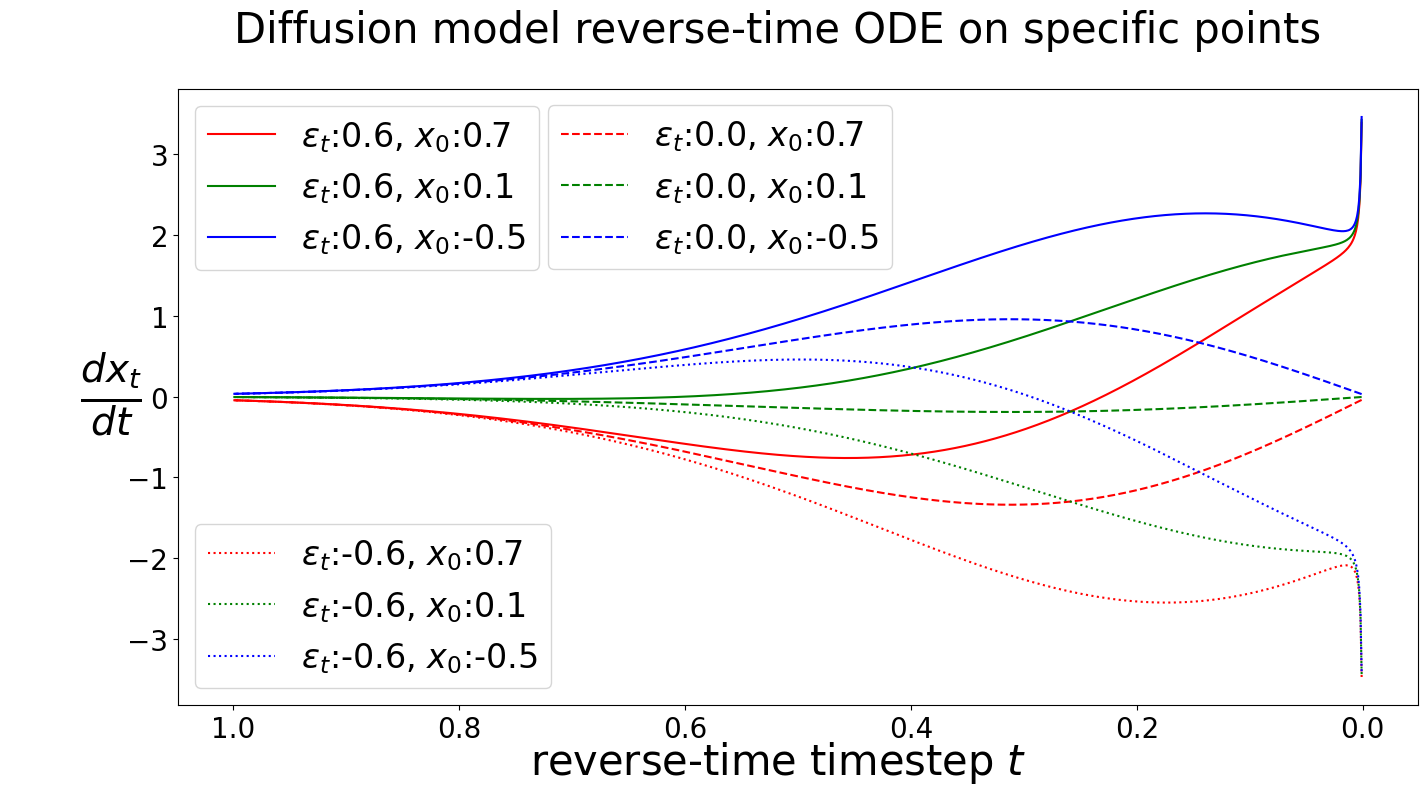
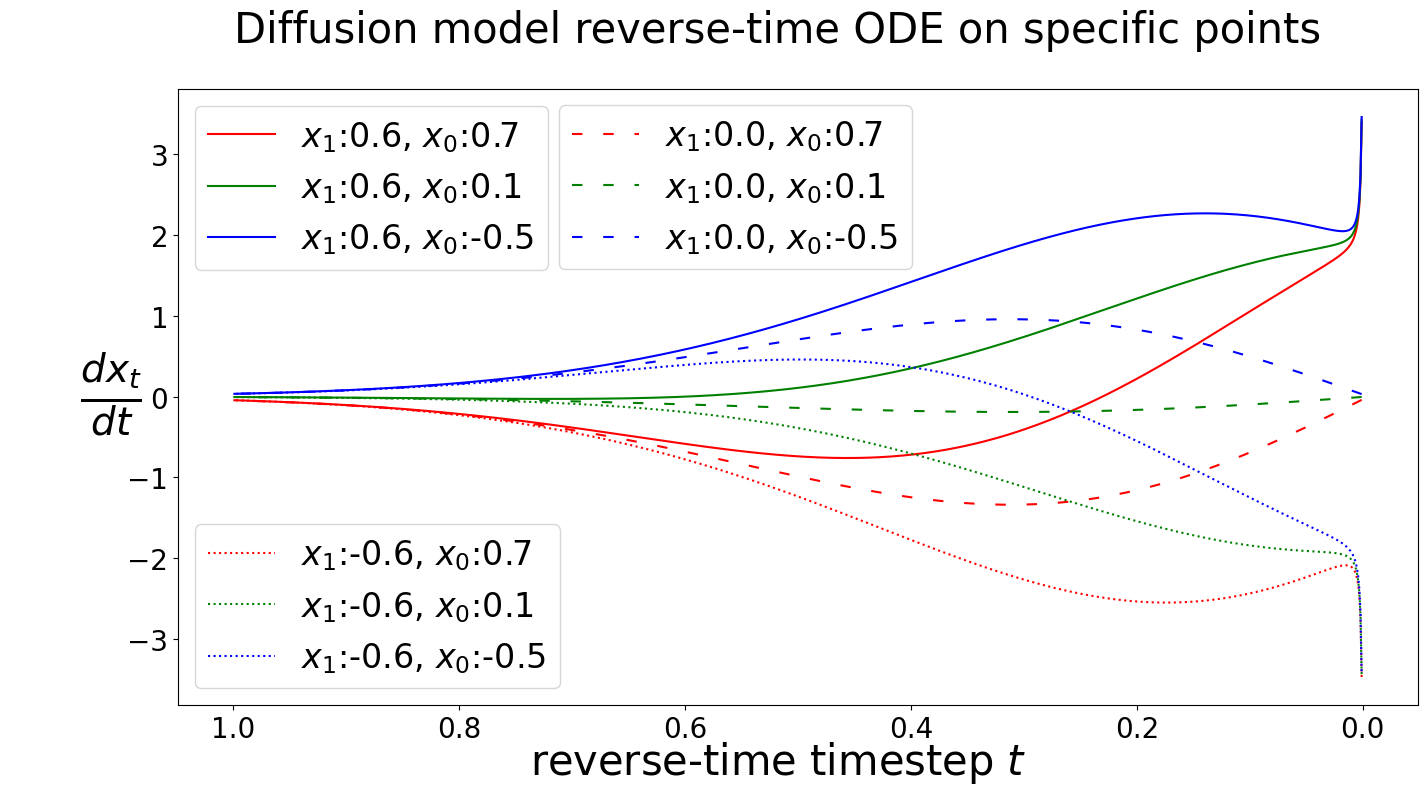
main_chart.py: trajectory_diffusion_vs_rectified_flow

diff --git a/main_chart.py b/main_chart.py
@@ -918,28 +918,30 @@ def ablation_ddim():
     draw_fig(fid_snr_arr, fid_qua_arr, fid_uni_arr, lambda_str)
 
 def dual_loss_reverse_time_ode_gradient():
-    def dm_grad_fn(x_0, epsilon_t, t):
+    def dm_grad_fn(x_0, x_1, t):
         grad = -(9.95 * t + 0.05) * math.exp(-4.975 * t * t - 0.05 * t) * x_0
         exp2 = math.exp(-9.95 * t * t - 0.1 * t)
-        grad += (9.95 * t + 0.05) * exp2 / math.sqrt(1 - exp2) * epsilon_t
+        grad += (9.95 * t + 0.05) * exp2 / math.sqrt(1 - exp2) * x_1
         return grad
 
     ts_arr = list(range(1, 1000, 1)) # todo: change step back.
     ts_arr = [step / 1000 for step in ts_arr] # 0.01 ~ 0.999
-    ep_arr = [0.6, 0.0, -0.6]   # epsilon_t array
+    ep_arr = [0.6, 0.0, -0.6]   # x_1 array
     x0_arr = [0.7, 0.1, -0.5]   # x_0 array
     fig = plt.figure(figsize=(16, 8))
     ax = fig.add_subplot(1, 1, 1)
     ax.tick_params('both', labelsize=20)
     line_arr = []
-    for ep, l_stype in zip(ep_arr, ['-', '--', ':']):
+    # (0, (5, 10)): loosely dash
+    # (5, (10, 3)): long dash with offset
+    for ep, l_stype in zip(ep_arr, ['-', (0, (5, 10)), ':']):
         for x0, l_color in zip(x0_arr, ['r', 'g', 'b']):
             grad_arr = []
             for ts in ts_arr:
                 gr = dm_grad_fn(x0, ep, ts)
                 grad_arr.append(gr)
             # for
-            lbl = f"$\\epsilon_t$:{ep}, $x_0$:{x0}"
+            lbl = f"$x_1$:{ep}, $x_0$:{x0}"
             line, = ax.plot(ts_arr, grad_arr, label=lbl, linestyle=l_stype, color=l_color)
             line_arr.append(line)
         # for
@@ -947,7 +949,7 @@ def dual_loss_reverse_time_ode_gradient():
     plt.gca().invert_xaxis() # reverse time ODE. So reverse X axis.
     legend1 = ax.legend(handles=line_arr[:3], fontsize=24, loc='upper left') # multiple legend
     plt.gca().add_artist(legend1)
-    legend2 = ax.legend(handles=line_arr[3:6], fontsize=24, loc=(0.298, 0.707))
+    legend2 = ax.legend(handles=line_arr[3:6], fontsize=24, loc=(0.307, 0.707))
     plt.gca().add_artist(legend2)
     ax.legend(handles=line_arr[6:], fontsize=24, loc='lower left')
 
@@ -994,6 +996,233 @@ def dual_loss_negative_effect():
     print(f"file saved: {f_path}")
     plt.close()
 
+def dual_loss__trajectory_diffusion_vs_rectified_flow():
+    x1k_df = [0.257086, 0.257072, 0.257058, 0.257044, 0.257030, 0.257017, 0.257004, 0.256990, 0.256977, 0.256963,
+              0.256949, 0.256935, 0.256921, 0.256907, 0.256892, 0.256877, 0.256862, 0.256848, 0.256833, 0.256818,
+              0.256802, 0.256787, 0.256772, 0.256757, 0.256742, 0.256727, 0.256711, 0.256696, 0.256680, 0.256663,
+              0.256646, 0.256629, 0.256612, 0.256596, 0.256579, 0.256562, 0.256545, 0.256528, 0.256511, 0.256492,
+              0.256474, 0.256455, 0.256436, 0.256417, 0.256398, 0.256378, 0.256359, 0.256340, 0.256322, 0.256302,
+              0.256283, 0.256263, 0.256244, 0.256224, 0.256204, 0.256184, 0.256163, 0.256141, 0.256120, 0.256098,
+              0.256075, 0.256053, 0.256031, 0.256008, 0.255985, 0.255961, 0.255937, 0.255913, 0.255889, 0.255865,
+              0.255840, 0.255815, 0.255789, 0.255765, 0.255739, 0.255713, 0.255686, 0.255659, 0.255631, 0.255603,
+              0.255575, 0.255546, 0.255517, 0.255489, 0.255459, 0.255430, 0.255400, 0.255369, 0.255338, 0.255307,
+              0.255275, 0.255243, 0.255211, 0.255177, 0.255144, 0.255110, 0.255076, 0.255041, 0.255005, 0.254969,
+              0.254933, 0.254897, 0.254860, 0.254822, 0.254784, 0.254746, 0.254707, 0.254668, 0.254628, 0.254587,
+              0.254545, 0.254504, 0.254463, 0.254421, 0.254378, 0.254334, 0.254290, 0.254245, 0.254199, 0.254154,
+              0.254107, 0.254060, 0.254012, 0.253965, 0.253916, 0.253868, 0.253818, 0.253768, 0.253718, 0.253668,
+              0.253616, 0.253564, 0.253512, 0.253458, 0.253405, 0.253351, 0.253296, 0.253241, 0.253186, 0.253130,
+              0.253075, 0.253018, 0.252961, 0.252903, 0.252845, 0.252785, 0.252726, 0.252665, 0.252605, 0.252544,
+              0.252483, 0.252421, 0.252358, 0.252295, 0.252231, 0.252167, 0.252102, 0.252036, 0.251969, 0.251902,
+              0.251835, 0.251767, 0.251698, 0.251629, 0.251560, 0.251490, 0.251419, 0.251348, 0.251276, 0.251203,
+              0.251130, 0.251056, 0.250981, 0.250906, 0.250831, 0.250755, 0.250679, 0.250603, 0.250526, 0.250448,
+              0.250371, 0.250293, 0.250214, 0.250135, 0.250055, 0.249975, 0.249894, 0.249814, 0.249733, 0.249652,
+              0.249571, 0.249489, 0.249407, 0.249325, 0.249243, 0.249161, 0.249079, 0.248996, 0.248914, 0.248832,
+              0.248749, 0.248667, 0.248586, 0.248504, 0.248423, 0.248342, 0.248260, 0.248179, 0.248098, 0.248018,
+              0.247938, 0.247859, 0.247780, 0.247701, 0.247623, 0.247546, 0.247469, 0.247393, 0.247318, 0.247243,
+              0.247169, 0.247096, 0.247024, 0.246952, 0.246882, 0.246813, 0.246745, 0.246678, 0.246612, 0.246547,
+              0.246484, 0.246422, 0.246362, 0.246304, 0.246248, 0.246193, 0.246139, 0.246086, 0.246036, 0.245987,
+              0.245941, 0.245897, 0.245854, 0.245813, 0.245774, 0.245737, 0.245702, 0.245668, 0.245637, 0.245607,
+              0.245581, 0.245557, 0.245535, 0.245515, 0.245498, 0.245483, 0.245471, 0.245461, 0.245453, 0.245448,
+              0.245447, 0.245448, 0.245452, 0.245459, 0.245468, 0.245480, 0.245496, 0.245514, 0.245534, 0.245558,
+              0.245585, 0.245615, 0.245647, 0.245682, 0.245721, 0.245762, 0.245807, 0.245854, 0.245904, 0.245958,
+              0.246014, 0.246072, 0.246134, 0.246199, 0.246267, 0.246339, 0.246413, 0.246490, 0.246570, 0.246652,
+              0.246737, 0.246826, 0.246918, 0.247013, 0.247110, 0.247210, 0.247313, 0.247420, 0.247530, 0.247643,
+              0.247760, 0.247879, 0.248002, 0.248127, 0.248257, 0.248390, 0.248527, 0.248666, 0.248809, 0.248955,
+              0.249104, 0.249257, 0.249413, 0.249573, 0.249736, 0.249903, 0.250073, 0.250247, 0.250425, 0.250607,
+              0.250793, 0.250982, 0.251174, 0.251370, 0.251571, 0.251776, 0.251985, 0.252199, 0.252416, 0.252638,
+              0.252864, 0.253094, 0.253330, 0.253570, 0.253815, 0.254064, 0.254316, 0.254574, 0.254835, 0.255102,
+              0.255373, 0.255650, 0.255932, 0.256219, 0.256510, 0.256806, 0.257105, 0.257411, 0.257721, 0.258036,
+              0.258355, 0.258678, 0.259006, 0.259340, 0.259678, 0.260020, 0.260368, 0.260721, 0.261077, 0.261440,
+              0.261806, 0.262177, 0.262553, 0.262934, 0.263318, 0.263708, 0.264103, 0.264501, 0.264903, 0.265310,
+              0.265721, 0.266136, 0.266555, 0.266979, 0.267408, 0.267840, 0.268277, 0.268718, 0.269164, 0.269614,
+              0.270068, 0.270527, 0.270990, 0.271457, 0.271929, 0.272404, 0.272882, 0.273365, 0.273851, 0.274341,
+              0.274835, 0.275332, 0.275833, 0.276339, 0.276848, 0.277361, 0.277877, 0.278396, 0.278917, 0.279443,
+              0.279972, 0.280505, 0.281041, 0.281580, 0.282122, 0.282666, 0.283215, 0.283766, 0.284321, 0.284879,
+              0.285441, 0.286005, 0.286573, 0.287144, 0.287718, 0.288296, 0.288877, 0.289460, 0.290046, 0.290634,
+              0.291227, 0.291822, 0.292420, 0.293019, 0.293622, 0.294228, 0.294837, 0.295449, 0.296063, 0.296679,
+              0.297298, 0.297919, 0.298544, 0.299172, 0.299802, 0.300433, 0.301067, 0.301705, 0.302345, 0.302989,
+              0.303634, 0.304282, 0.304932, 0.305584, 0.306239, 0.306895, 0.307554, 0.308216, 0.308879, 0.309546,
+              0.310214, 0.310885, 0.311558, 0.312234, 0.312912, 0.313592, 0.314275, 0.314959, 0.315645, 0.316334,
+              0.317025, 0.317718, 0.318413, 0.319110, 0.319809, 0.320511, 0.321215, 0.321920, 0.322628, 0.323336,
+              0.324047, 0.324760, 0.325476, 0.326193, 0.326911, 0.327632, 0.328355, 0.329080, 0.329806, 0.330534,
+              0.331264, 0.331995, 0.332728, 0.333462, 0.334199, 0.334938, 0.335678, 0.336420, 0.337163, 0.337908,
+              0.338654, 0.339402, 0.340152, 0.340902, 0.341655, 0.342409, 0.343164, 0.343921, 0.344679, 0.345439,
+              0.346199, 0.346961, 0.347725, 0.348491, 0.349258, 0.350026, 0.350795, 0.351567, 0.352339, 0.353112,
+              0.353887, 0.354662, 0.355439, 0.356217, 0.356995, 0.357775, 0.358555, 0.359336, 0.360119, 0.360902,
+              0.361688, 0.362474, 0.363260, 0.364048, 0.364838, 0.365628, 0.366419, 0.367211, 0.368004, 0.368798,
+              0.369593, 0.370388, 0.371184, 0.371981, 0.372779, 0.373578, 0.374377, 0.375177, 0.375978, 0.376779,
+              0.377582, 0.378385, 0.379189, 0.379993, 0.380798, 0.381604, 0.382410, 0.383217, 0.384025, 0.384833,
+              0.385641, 0.386450, 0.387259, 0.388069, 0.388879, 0.389691, 0.390503, 0.391315, 0.392127, 0.392940,
+              0.393754, 0.394568, 0.395382, 0.396196, 0.397011, 0.397826, 0.398641, 0.399457, 0.400272, 0.401089,
+              0.401905, 0.402721, 0.403537, 0.404353, 0.405168, 0.405985, 0.406802, 0.407618, 0.408435, 0.409252,
+              0.410068, 0.410885, 0.411701, 0.412518, 0.413335, 0.414152, 0.414968, 0.415784, 0.416600, 0.417417,
+              0.418234, 0.419050, 0.419865, 0.420681, 0.421497, 0.422313, 0.423129, 0.423945, 0.424759, 0.425574,
+              0.426389, 0.427203, 0.428018, 0.428832, 0.429644, 0.430457, 0.431269, 0.432082, 0.432894, 0.433706,
+              0.434517, 0.435329, 0.436139, 0.436949, 0.437758, 0.438566, 0.439375, 0.440184, 0.440991, 0.441798,
+              0.442605, 0.443412, 0.444218, 0.445023, 0.445828, 0.446634, 0.447438, 0.448241, 0.449044, 0.449846,
+              0.450647, 0.451447, 0.452247, 0.453046, 0.453844, 0.454640, 0.455437, 0.456233, 0.457028, 0.457823,
+              0.458617, 0.459411, 0.460203, 0.460995, 0.461785, 0.462576, 0.463364, 0.464152, 0.464940, 0.465727,
+              0.466512, 0.467296, 0.468080, 0.468862, 0.469643, 0.470424, 0.471204, 0.471982, 0.472760, 0.473538,
+              0.474313, 0.475088, 0.475862, 0.476634, 0.477405, 0.478175, 0.478945, 0.479712, 0.480479, 0.481246,
+              0.482010, 0.482774, 0.483537, 0.484298, 0.485058, 0.485818, 0.486576, 0.487332, 0.488088, 0.488842,
+              0.489594, 0.490347, 0.491096, 0.491844, 0.492593, 0.493338, 0.494083, 0.494828, 0.495569, 0.496310,
+              0.497050, 0.497788, 0.498525, 0.499261, 0.499994, 0.500728, 0.501458, 0.502187, 0.502915, 0.503640,
+              0.504365, 0.505088, 0.505809, 0.506530, 0.507249, 0.507967, 0.508684, 0.509397, 0.510110, 0.510821,
+              0.511531, 0.512240, 0.512945, 0.513650, 0.514354, 0.515055, 0.515756, 0.516453, 0.517151, 0.517846,
+              0.518540, 0.519233, 0.519922, 0.520612, 0.521298, 0.521983, 0.522667, 0.523349, 0.524031, 0.524708,
+              0.525386, 0.526060, 0.526733, 0.527404, 0.528073, 0.528742, 0.529406, 0.530072, 0.530733, 0.531394,
+              0.532053, 0.532710, 0.533366, 0.534020, 0.534673, 0.535322, 0.535971, 0.536616, 0.537263, 0.537904,
+              0.538546, 0.539183, 0.539821, 0.540454, 0.541088, 0.541718, 0.542347, 0.542973, 0.543598, 0.544221,
+              0.544841, 0.545461, 0.546078, 0.546694, 0.547307, 0.547919, 0.548528, 0.549136, 0.549741, 0.550345,
+              0.550946, 0.551546, 0.552143, 0.552739, 0.553332, 0.553924, 0.554513, 0.555100, 0.555686, 0.556269,
+              0.556852, 0.557430, 0.558009, 0.558583, 0.559160, 0.559729, 0.560300, 0.560866, 0.561432, 0.561995,
+              0.562557, 0.563117, 0.563675, 0.564232, 0.564784, 0.565338, 0.565885, 0.566435, 0.566979, 0.567523,
+              0.568064, 0.568603, 0.569142, 0.569676, 0.570211, 0.570740, 0.571270, 0.571797, 0.572322, 0.572847,
+              0.573366, 0.573888, 0.574404, 0.574920, 0.575434, 0.575944, 0.576457, 0.576962, 0.577468, 0.577972,
+              0.578473, 0.578976, 0.579470, 0.579967, 0.580461, 0.580951, 0.581444, 0.581929, 0.582416, 0.582901,
+              0.583381, 0.583864, 0.584341, 0.584817, 0.585295, 0.585764, 0.586235, 0.586705, 0.587169, 0.587636,
+              0.588099, 0.588558, 0.589020, 0.589475, 0.589930, 0.590387, 0.590834, 0.591284, 0.591735, 0.592176,
+              0.592621, 0.593066, 0.593502, 0.593941, 0.594380, 0.594811, 0.595244, 0.595677, 0.596102, 0.596529,
+              0.596957, 0.597376, 0.597797, 0.598221, 0.598633, 0.599048, 0.599466, 0.599874, 0.600283, 0.600694,
+              0.601099, 0.601501, 0.601906, 0.602308, 0.602703, 0.603101, 0.603501, 0.603890, 0.604280, 0.604672,
+              0.605060, 0.605442, 0.605827, 0.606214, 0.606589, 0.606966, 0.607346, 0.607722, 0.608091, 0.608462,
+              0.608836, 0.609201, 0.609564, 0.609929, 0.610296, 0.610652, 0.611007, 0.611365, 0.611726, 0.612072,
+              0.612420, 0.612771, 0.613124, 0.613462, 0.613803, 0.614146, 0.614491, 0.614824, 0.615156, 0.615490,
+              0.615827, 0.616156, 0.616479, 0.616805, 0.617132, 0.617460, 0.617774, 0.618090, 0.618408, 0.618728,
+              0.619041, 0.619346, 0.619653, 0.619962, 0.620273, 0.620573, 0.620869, 0.621166, 0.621465, 0.621766,
+              0.622057, 0.622342, 0.622629, 0.622916, 0.623206, 0.623492, 0.623765, 0.624039, 0.624315, 0.624592,
+              0.624871, 0.625137, 0.625397, 0.625659, 0.625922, 0.626187, 0.626453, 0.626703, 0.626950, 0.627196,
+              0.627445, 0.627694, 0.627943, 0.628186, 0.628415, 0.628644, 0.628873, 0.629103, 0.629332, 0.629562,
+              0.629784, 0.629991, 0.630198, 0.630405, 0.630611, 0.630817, 0.631021, 0.631226, 0.631415, 0.631593,
+              0.631771, 0.631949, 0.632123, 0.632296, 0.632467, 0.632636, 0.632802, 0.632948, 0.633088, 0.633228,
+              0.633363, 0.633498, 0.633629, 0.633758, 0.633885, 0.634010, 0.634134, 0.634245, 0.634347, 0.634450,
+              0.634550, 0.634650, 0.634750, 0.634849, 0.634949, 0.635048, 0.635148, 0.635248, 0.635348, 0.635449,
+              0.635549] # diffusion
+    y1k_df = [0.952998, 0.952969, 0.952942, 0.952916, 0.952891, 0.952865, 0.952839, 0.952813, 0.952787, 0.952760,
+              0.952733, 0.952707, 0.952680, 0.952653, 0.952626, 0.952598, 0.952569, 0.952541, 0.952513, 0.952484,
+              0.952455, 0.952425, 0.952394, 0.952363, 0.952332, 0.952301, 0.952271, 0.952241, 0.952210, 0.952177,
+              0.952145, 0.952114, 0.952081, 0.952048, 0.952016, 0.951982, 0.951948, 0.951913, 0.951876, 0.951840,
+              0.951803, 0.951767, 0.951730, 0.951692, 0.951654, 0.951616, 0.951577, 0.951538, 0.951499, 0.951460,
+              0.951420, 0.951380, 0.951339, 0.951297, 0.951255, 0.951213, 0.951168, 0.951123, 0.951078, 0.951032,
+              0.950987, 0.950941, 0.950893, 0.950844, 0.950795, 0.950745, 0.950695, 0.950644, 0.950594, 0.950542,
+              0.950490, 0.950437, 0.950383, 0.950328, 0.950272, 0.950216, 0.950158, 0.950099, 0.950039, 0.949979,
+              0.949917, 0.949854, 0.949792, 0.949728, 0.949664, 0.949598, 0.949532, 0.949464, 0.949395, 0.949325,
+              0.949254, 0.949182, 0.949109, 0.949035, 0.948959, 0.948883, 0.948806, 0.948727, 0.948647, 0.948565,
+              0.948483, 0.948400, 0.948316, 0.948232, 0.948146, 0.948058, 0.947969, 0.947879, 0.947788, 0.947694,
+              0.947601, 0.947506, 0.947410, 0.947311, 0.947212, 0.947112, 0.947011, 0.946909, 0.946805, 0.946700,
+              0.946593, 0.946485, 0.946375, 0.946263, 0.946150, 0.946036, 0.945920, 0.945802, 0.945683, 0.945562,
+              0.945440, 0.945316, 0.945190, 0.945063, 0.944935, 0.944806, 0.944675, 0.944542, 0.944408, 0.944272,
+              0.944135, 0.943995, 0.943853, 0.943709, 0.943564, 0.943417, 0.943270, 0.943120, 0.942968, 0.942813,
+              0.942658, 0.942500, 0.942341, 0.942179, 0.942015, 0.941849, 0.941681, 0.941510, 0.941336, 0.941159,
+              0.940981, 0.940800, 0.940618, 0.940433, 0.940247, 0.940058, 0.939866, 0.939671, 0.939474, 0.939275,
+              0.939072, 0.938867, 0.938660, 0.938450, 0.938238, 0.938024, 0.937806, 0.937586, 0.937363, 0.937137,
+              0.936909, 0.936678, 0.936444, 0.936207, 0.935966, 0.935723, 0.935477, 0.935228, 0.934976, 0.934720,
+              0.934461, 0.934199, 0.933936, 0.933668, 0.933397, 0.933123, 0.932845, 0.932565, 0.932281, 0.931994,
+              0.931702, 0.931408, 0.931110, 0.930809, 0.930505, 0.930198, 0.929886, 0.929570, 0.929251, 0.928927,
+              0.928600, 0.928269, 0.927934, 0.927596, 0.927254, 0.926907, 0.926556, 0.926202, 0.925844, 0.925483,
+              0.925117, 0.924746, 0.924371, 0.923992, 0.923609, 0.923223, 0.922832, 0.922436, 0.922036, 0.921632,
+              0.921224, 0.920812, 0.920393, 0.919969, 0.919541, 0.919110, 0.918676, 0.918237, 0.917792, 0.917342,
+              0.916888, 0.916428, 0.915965, 0.915496, 0.915022, 0.914544, 0.914062, 0.913575, 0.913083, 0.912587,
+              0.912085, 0.911577, 0.911066, 0.910549, 0.910028, 0.909502, 0.908971, 0.908435, 0.907894, 0.907347,
+              0.906795, 0.906238, 0.905675, 0.905108, 0.904536, 0.903958, 0.903375, 0.902787, 0.902195, 0.901596,
+              0.900993, 0.900385, 0.899773, 0.899156, 0.898534, 0.897906, 0.897274, 0.896637, 0.895995, 0.895348,
+              0.894696, 0.894040, 0.893378, 0.892712, 0.892040, 0.891364, 0.890682, 0.889996, 0.889306, 0.888612,
+              0.887913, 0.887209, 0.886500, 0.885786, 0.885067, 0.884344, 0.883617, 0.882884, 0.882147, 0.881405,
+              0.880659, 0.879907, 0.879151, 0.878389, 0.877622, 0.876850, 0.876073, 0.875292, 0.874506, 0.873714,
+              0.872918, 0.872117, 0.871310, 0.870499, 0.869683, 0.868862, 0.868036, 0.867205, 0.866367, 0.865525,
+              0.864677, 0.863825, 0.862968, 0.862106, 0.861237, 0.860364, 0.859484, 0.858599, 0.857710, 0.856815,
+              0.855915, 0.855008, 0.854096, 0.853178, 0.852255, 0.851326, 0.850392, 0.849452, 0.848508, 0.847558,
+              0.846602, 0.845641, 0.844672, 0.843698, 0.842719, 0.841734, 0.840744, 0.839748, 0.838747, 0.837740,
+              0.836729, 0.835713, 0.834690, 0.833662, 0.832628, 0.831588, 0.830543, 0.829492, 0.828436, 0.827373,
+              0.826306, 0.825233, 0.824154, 0.823070, 0.821980, 0.820885, 0.819784, 0.818677, 0.817566, 0.816448,
+              0.815325, 0.814198, 0.813065, 0.811927, 0.810784, 0.809635, 0.808482, 0.807323, 0.806158, 0.804989,
+              0.803814, 0.802633, 0.801448, 0.800258, 0.799062, 0.797861, 0.796656, 0.795446, 0.794231, 0.793011,
+              0.791786, 0.790557, 0.789323, 0.788083, 0.786839, 0.785590, 0.784337, 0.783080, 0.781819, 0.780554,
+              0.779283, 0.778008, 0.776729, 0.775446, 0.774159, 0.772869, 0.771573, 0.770273, 0.768969, 0.767661,
+              0.766349, 0.765033, 0.763713, 0.762389, 0.761061, 0.759729, 0.758394, 0.757055, 0.755713, 0.754368,
+              0.753017, 0.751664, 0.750307, 0.748947, 0.747584, 0.746217, 0.744847, 0.743474, 0.742098, 0.740720,
+              0.739339, 0.737954, 0.736567, 0.735176, 0.733783, 0.732387, 0.730989, 0.729588, 0.728184, 0.726778,
+              0.725369, 0.723957, 0.722544, 0.721128, 0.719710, 0.718291, 0.716870, 0.715446, 0.714020, 0.712593,
+              0.711164, 0.709732, 0.708299, 0.706864, 0.705427, 0.703988, 0.702548, 0.701107, 0.699665, 0.698221,
+              0.696775, 0.695327, 0.693879, 0.692429, 0.690977, 0.689525, 0.688071, 0.686617, 0.685161, 0.683705,
+              0.682248, 0.680789, 0.679330, 0.677869, 0.676408, 0.674947, 0.673485, 0.672023, 0.670560, 0.669097,
+              0.667634, 0.666171, 0.664707, 0.663243, 0.661778, 0.660313, 0.658849, 0.657384, 0.655919, 0.654455,
+              0.652991, 0.651527, 0.650064, 0.648601, 0.647138, 0.645675, 0.644213, 0.642752, 0.641291, 0.639831,
+              0.638371, 0.636911, 0.635452, 0.633992, 0.632534, 0.631076, 0.629619, 0.628163, 0.626708, 0.625254,
+              0.623801, 0.622350, 0.620899, 0.619450, 0.618001, 0.616554, 0.615108, 0.613662, 0.612218, 0.610776,
+              0.609334, 0.607894, 0.606455, 0.605018, 0.603582, 0.602148, 0.600715, 0.599284, 0.597855, 0.596428,
+              0.595002, 0.593578, 0.592156, 0.590737, 0.589319, 0.587903, 0.586490, 0.585079, 0.583669, 0.582261,
+              0.580856, 0.579452, 0.578050, 0.576650, 0.575252, 0.573856, 0.572462, 0.571071, 0.569682, 0.568296,
+              0.566911, 0.565530, 0.564151, 0.562774, 0.561400, 0.560029, 0.558660, 0.557295, 0.555932, 0.554571,
+              0.553213, 0.551857, 0.550504, 0.549154, 0.547806, 0.546462, 0.545120, 0.543782, 0.542446, 0.541114,
+              0.539785, 0.538458, 0.537135, 0.535816, 0.534499, 0.533186, 0.531875, 0.530567, 0.529261, 0.527959,
+              0.526661, 0.525366, 0.524074, 0.522785, 0.521500, 0.520217, 0.518938, 0.517663, 0.516392, 0.515123,
+              0.513858, 0.512596, 0.511338, 0.510083, 0.508832, 0.507585, 0.506341, 0.505100, 0.503865, 0.502632,
+              0.501403, 0.500178, 0.498956, 0.497738, 0.496525, 0.495315, 0.494108, 0.492905, 0.491706, 0.490511,
+              0.489320, 0.488132, 0.486947, 0.485768, 0.484592, 0.483419, 0.482250, 0.481085, 0.479925, 0.478769,
+              0.477616, 0.476467, 0.475322, 0.474182, 0.473046, 0.471913, 0.470785, 0.469662, 0.468543, 0.467428,
+              0.466316, 0.465210, 0.464108, 0.463010, 0.461915, 0.460826, 0.459740, 0.458659, 0.457581, 0.456509,
+              0.455440, 0.454375, 0.453315, 0.452260, 0.451208, 0.450160, 0.449117, 0.448079, 0.447044, 0.446013,
+              0.444987, 0.443966, 0.442948, 0.441934, 0.440926, 0.439921, 0.438920, 0.437926, 0.436935, 0.435947,
+              0.434965, 0.433987, 0.433013, 0.432043, 0.431078, 0.430117, 0.429160, 0.428209, 0.427261, 0.426317,
+              0.425380, 0.424446, 0.423515, 0.422591, 0.421670, 0.420752, 0.419840, 0.418932, 0.418027, 0.417128,
+              0.416233, 0.415341, 0.414455, 0.413573, 0.412694, 0.411821, 0.410953, 0.410087, 0.409228, 0.408372,
+              0.407520, 0.406674, 0.405831, 0.404993, 0.404159, 0.403328, 0.402503, 0.401682, 0.400863, 0.400051,
+              0.399242, 0.398437, 0.397637, 0.396840, 0.396049, 0.395262, 0.394478, 0.393700, 0.392925, 0.392155,
+              0.391389, 0.390626, 0.389870, 0.389116, 0.388368, 0.387623, 0.386882, 0.386147, 0.385414, 0.384686,
+              0.383962, 0.383242, 0.382527, 0.381815, 0.381109, 0.380405, 0.379706, 0.379012, 0.378320, 0.377635,
+              0.376951, 0.376273, 0.375598, 0.374927, 0.374261, 0.373598, 0.372941, 0.372285, 0.371636, 0.370989,
+              0.370347, 0.369709, 0.369074, 0.368444, 0.367817, 0.367195, 0.366576, 0.365962, 0.365350, 0.364745,
+              0.364141, 0.363543, 0.362947, 0.362356, 0.361768, 0.361184, 0.360604, 0.360027, 0.359455, 0.358886,
+              0.358321, 0.357759, 0.357202, 0.356647, 0.356097, 0.355550, 0.355007, 0.354468, 0.353932, 0.353400,
+              0.352872, 0.352346, 0.351825, 0.351307, 0.350793, 0.350282, 0.349775, 0.349271, 0.348770, 0.348274,
+              0.347779, 0.347290, 0.346802, 0.346320, 0.345838, 0.345363, 0.344889, 0.344421, 0.343953, 0.343491,
+              0.343031, 0.342574, 0.342121, 0.341670, 0.341224, 0.340779, 0.340340, 0.339901, 0.339468, 0.339036,
+              0.338608, 0.338184, 0.337761, 0.337344, 0.336926, 0.336516, 0.336105, 0.335699, 0.335296, 0.334894,
+              0.334498, 0.334101, 0.333711, 0.333322, 0.332936, 0.332554, 0.332171, 0.331796, 0.331421, 0.331050,
+              0.330682, 0.330313, 0.329952, 0.329591, 0.329232, 0.328878, 0.328524, 0.328176, 0.327828, 0.327483,
+              0.327143, 0.326802, 0.326466, 0.326132, 0.325798, 0.325471, 0.325144, 0.324819, 0.324499, 0.324178,
+              0.323861, 0.323548, 0.323234, 0.322925, 0.322619, 0.322311, 0.322011, 0.321711, 0.321411, 0.321118,
+              0.320824, 0.320532, 0.320245, 0.319959, 0.319673, 0.319393, 0.319113, 0.318834, 0.318561, 0.318288,
+              0.318015, 0.317749, 0.317483, 0.317216, 0.316957, 0.316697, 0.316437, 0.316184, 0.315931, 0.315678,
+              0.315429, 0.315183, 0.314937, 0.314693, 0.314454, 0.314214, 0.313975, 0.313742, 0.313510, 0.313277,
+              0.313049, 0.312823, 0.312598, 0.312371, 0.312153, 0.311935, 0.311716, 0.311500, 0.311288, 0.311077,
+              0.310864, 0.310658, 0.310454, 0.310249, 0.310044, 0.309846, 0.309648, 0.309450, 0.309252, 0.309062,
+              0.308872, 0.308682, 0.308490, 0.308308, 0.308125, 0.307942, 0.307758, 0.307581, 0.307406, 0.307230,
+              0.307053, 0.306881, 0.306713, 0.306545, 0.306376, 0.306207, 0.306047, 0.305886, 0.305725, 0.305563,
+              0.305405, 0.305252, 0.305099, 0.304945, 0.304791, 0.304642, 0.304497, 0.304351, 0.304205, 0.304058,
+              0.303917, 0.303780, 0.303642, 0.303504, 0.303365, 0.303229, 0.303100, 0.302971, 0.302841, 0.302711,
+              0.302580, 0.302457, 0.302336, 0.302215, 0.302094, 0.301973, 0.301852, 0.301738, 0.301626, 0.301515,
+              0.301403, 0.301291, 0.301180, 0.301071, 0.300970, 0.300868, 0.300767, 0.300665, 0.300564, 0.300463,
+              0.300366, 0.300275, 0.300185, 0.300095, 0.300004, 0.299914, 0.299825, 0.299736, 0.299653, 0.299574,
+              0.299495, 0.299417, 0.299339, 0.299261, 0.299184, 0.299107, 0.299030, 0.298962, 0.298896, 0.298830,
+              0.298764, 0.298699, 0.298635, 0.298570, 0.298506, 0.298443, 0.298380, 0.298323, 0.298270, 0.298218,
+              0.298168, 0.298119, 0.298070, 0.298023, 0.297977, 0.297932, 0.297887, 0.297844, 0.297800, 0.297757,
+              0.297714] # diffusion
+    y1k_df = [y - 0.07 for y in y1k_df]  # adjust value of y
+    x01_rf = [x1k_df[0], x1k_df[-1]]    # rectified flow
+    y01_rf = [y1k_df[0], y1k_df[-1]]    # rectified flow
+    fig = plt.figure(figsize=(16, 8))
+    ax = fig.add_subplot(1, 1, 1)
+    ax.tick_params('both', labelsize=25)
+    ax.plot(x1k_df, y1k_df, linestyle='-', color='r')
+    ax.plot(x01_rf, y01_rf, linestyle='-', color='b', marker='o', ms=6)
+    legends = ['Diffusion models trajectory', 'Rectified Flow trajectory']
+    ax.legend(legends, fontsize=35, loc='upper right')
+    ax.set_title(f"Trajectory: Diffusion models vs Rectified Flow", fontsize=40)
+    ax.set_xlabel(r"$x_t[a]$",  fontsize=35)
+    ax.set_ylabel(r"$x_t[b]$        ", fontsize=35, rotation=0)
+    ax.set_ylim((0.1, 1.0))
+    text_kwargs = dict(ha='center', va='center', fontsize=40, color='k')
+    plt.text(0.25, 0.94, r"$\pi_0$", text_kwargs)
+    plt.text(0.64, 0.27, r"$\pi_1$", text_kwargs)
+    fig.tight_layout()
+
+    f_path = './configs/chart_dual_loss/fig_trajectory1_diffusion_vs_rectified_flow.png'
+    fig.savefig(f_path, bbox_inches='tight')
+    print(f"file saved: {f_path}")
+    plt.close()
+
 def main():
     """ entry point """
     # fig_trajectory_ori_vs_new()
@@ -1005,11 +1234,12 @@ def main():
     # fid_compare_pndm_cifar10()
     # fid_compare_splitnm_imagenet()
     # fig_trajectory_compare_all3()
-    # discrete_error_predict_error()
+    # discretization_error_vs_prediction_error()
     # prediction_error_distribution()
     # ablation_ddim()
-    # dual_loss_reverse_time_ode_gradient()
-    dual_loss_negative_effect()
+    dual_loss_reverse_time_ode_gradient()
+    # dual_loss_negative_effect()
+    # dual_loss__trajectory_diffusion_vs_rectified_flow()
 
 if __name__ == '__main__':
     main()

diff --git a/datasets/vision.py b/datasets/vision.py
@@ -7,7 +7,7 @@ class VisionDataset(data.Dataset):
     _repr_indent = 4
 
     def __init__(self, root, transforms=None, transform=None, target_transform=None):
-        if isinstance(root, torch._six.string_classes):
+        if hasattr(torch, "_six") and isinstance(root, torch._six.string_classes):
             root = os.path.expanduser(root)
         self.root = root
         
